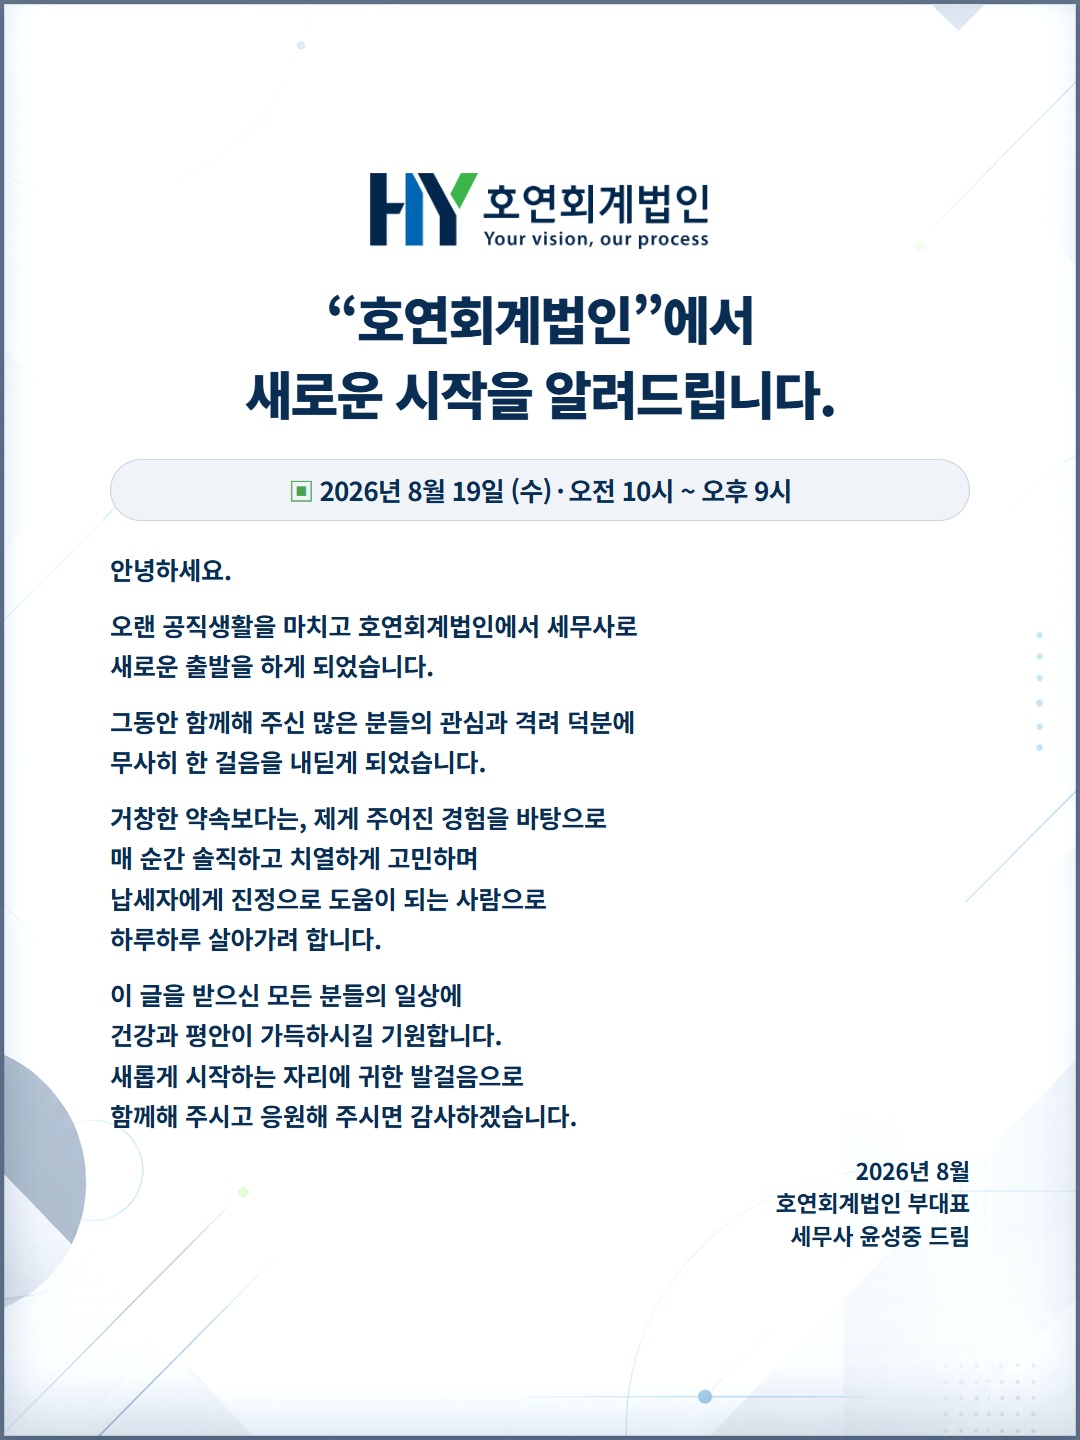
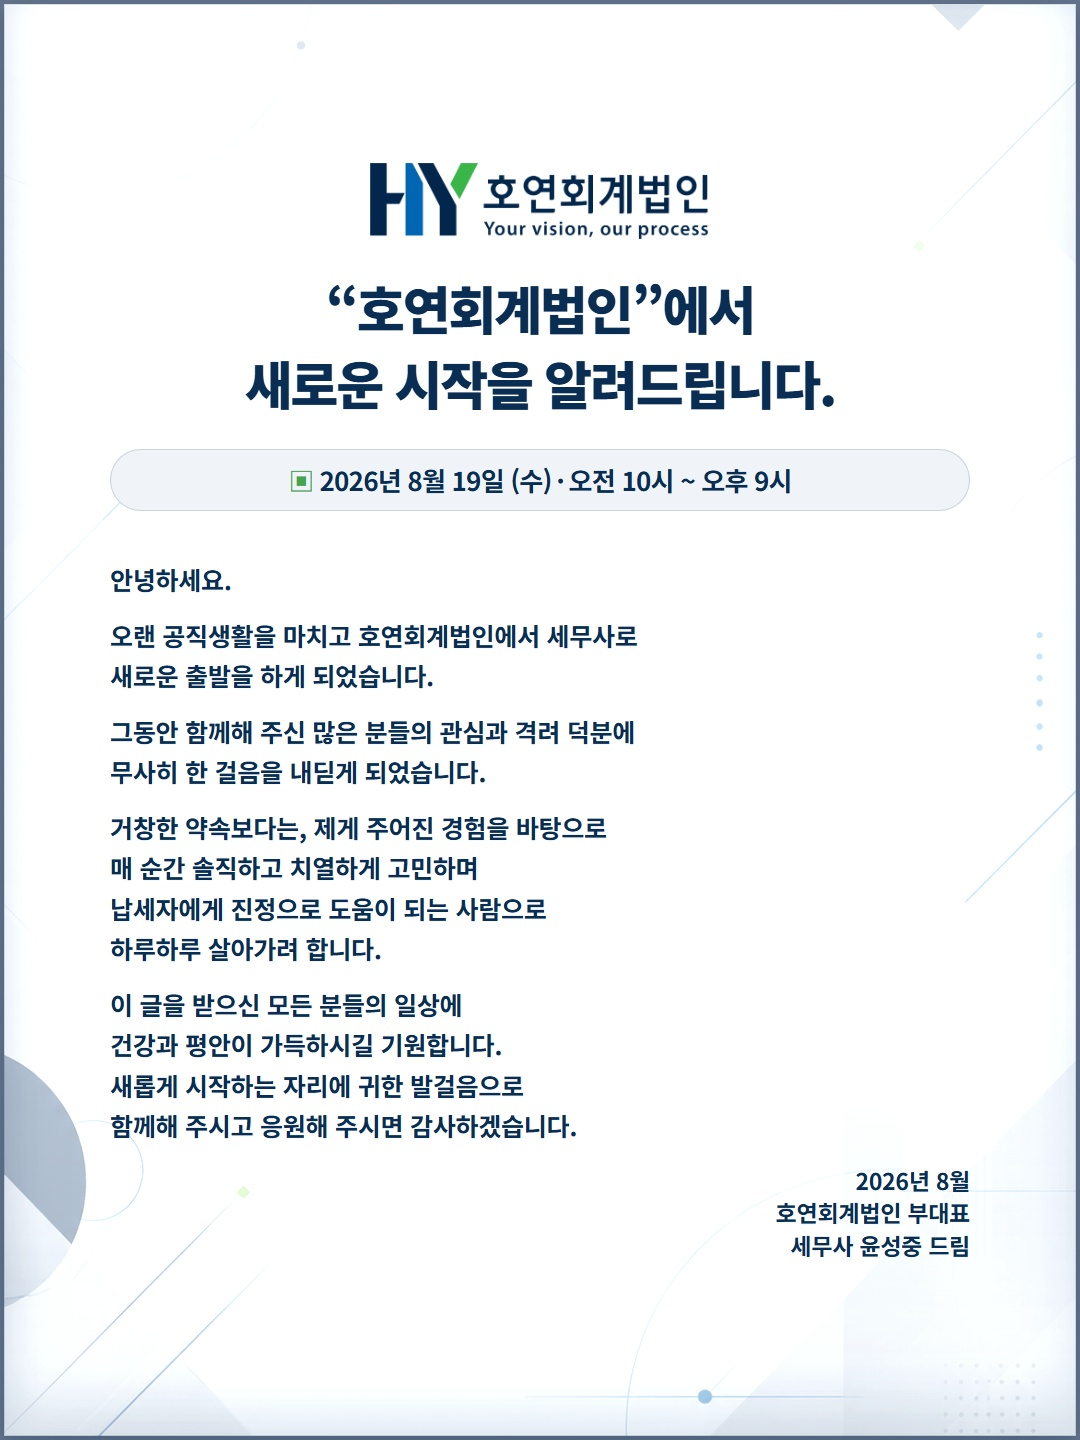
assets: add spacing below intro schedule

Changed region(s): [[0.0917, 0.375, 0.5806, 0.8125], [0.2139, 0.0938, 0.7639, 0.375], [0.7028, 0.7812, 0.9167, 0.875]]

diff --git a/scripts/intro-section-stage.html b/scripts/intro-section-stage.html
@@ -47,7 +47,7 @@
     #intro-stage[data-width="1080"] .intro-content { width:100%; }
     #intro-stage[data-width="1080"] .brand-logo { width:340px; margin-bottom:30px; }
     #intro-stage[data-width="1080"] .intro-title { margin-bottom:28px; font-size:52px; }
-    #intro-stage[data-width="1080"] .event-pill { margin-bottom:28px; padding:12px 18px; font-size:26px; }
+    #intro-stage[data-width="1080"] .event-pill { margin-bottom:48px; padding:12px 18px; font-size:26px; }
     #intro-stage[data-width="1080"] .invitation-message { font-size:25px; line-height:1.62; }
     #intro-stage[data-width="1080"] .invitation-message p { margin-bottom:15px; }
     #intro-stage[data-width="1080"] .invitation-signature { margin-top:18px !important; font-size:23px; line-height:1.42; }
